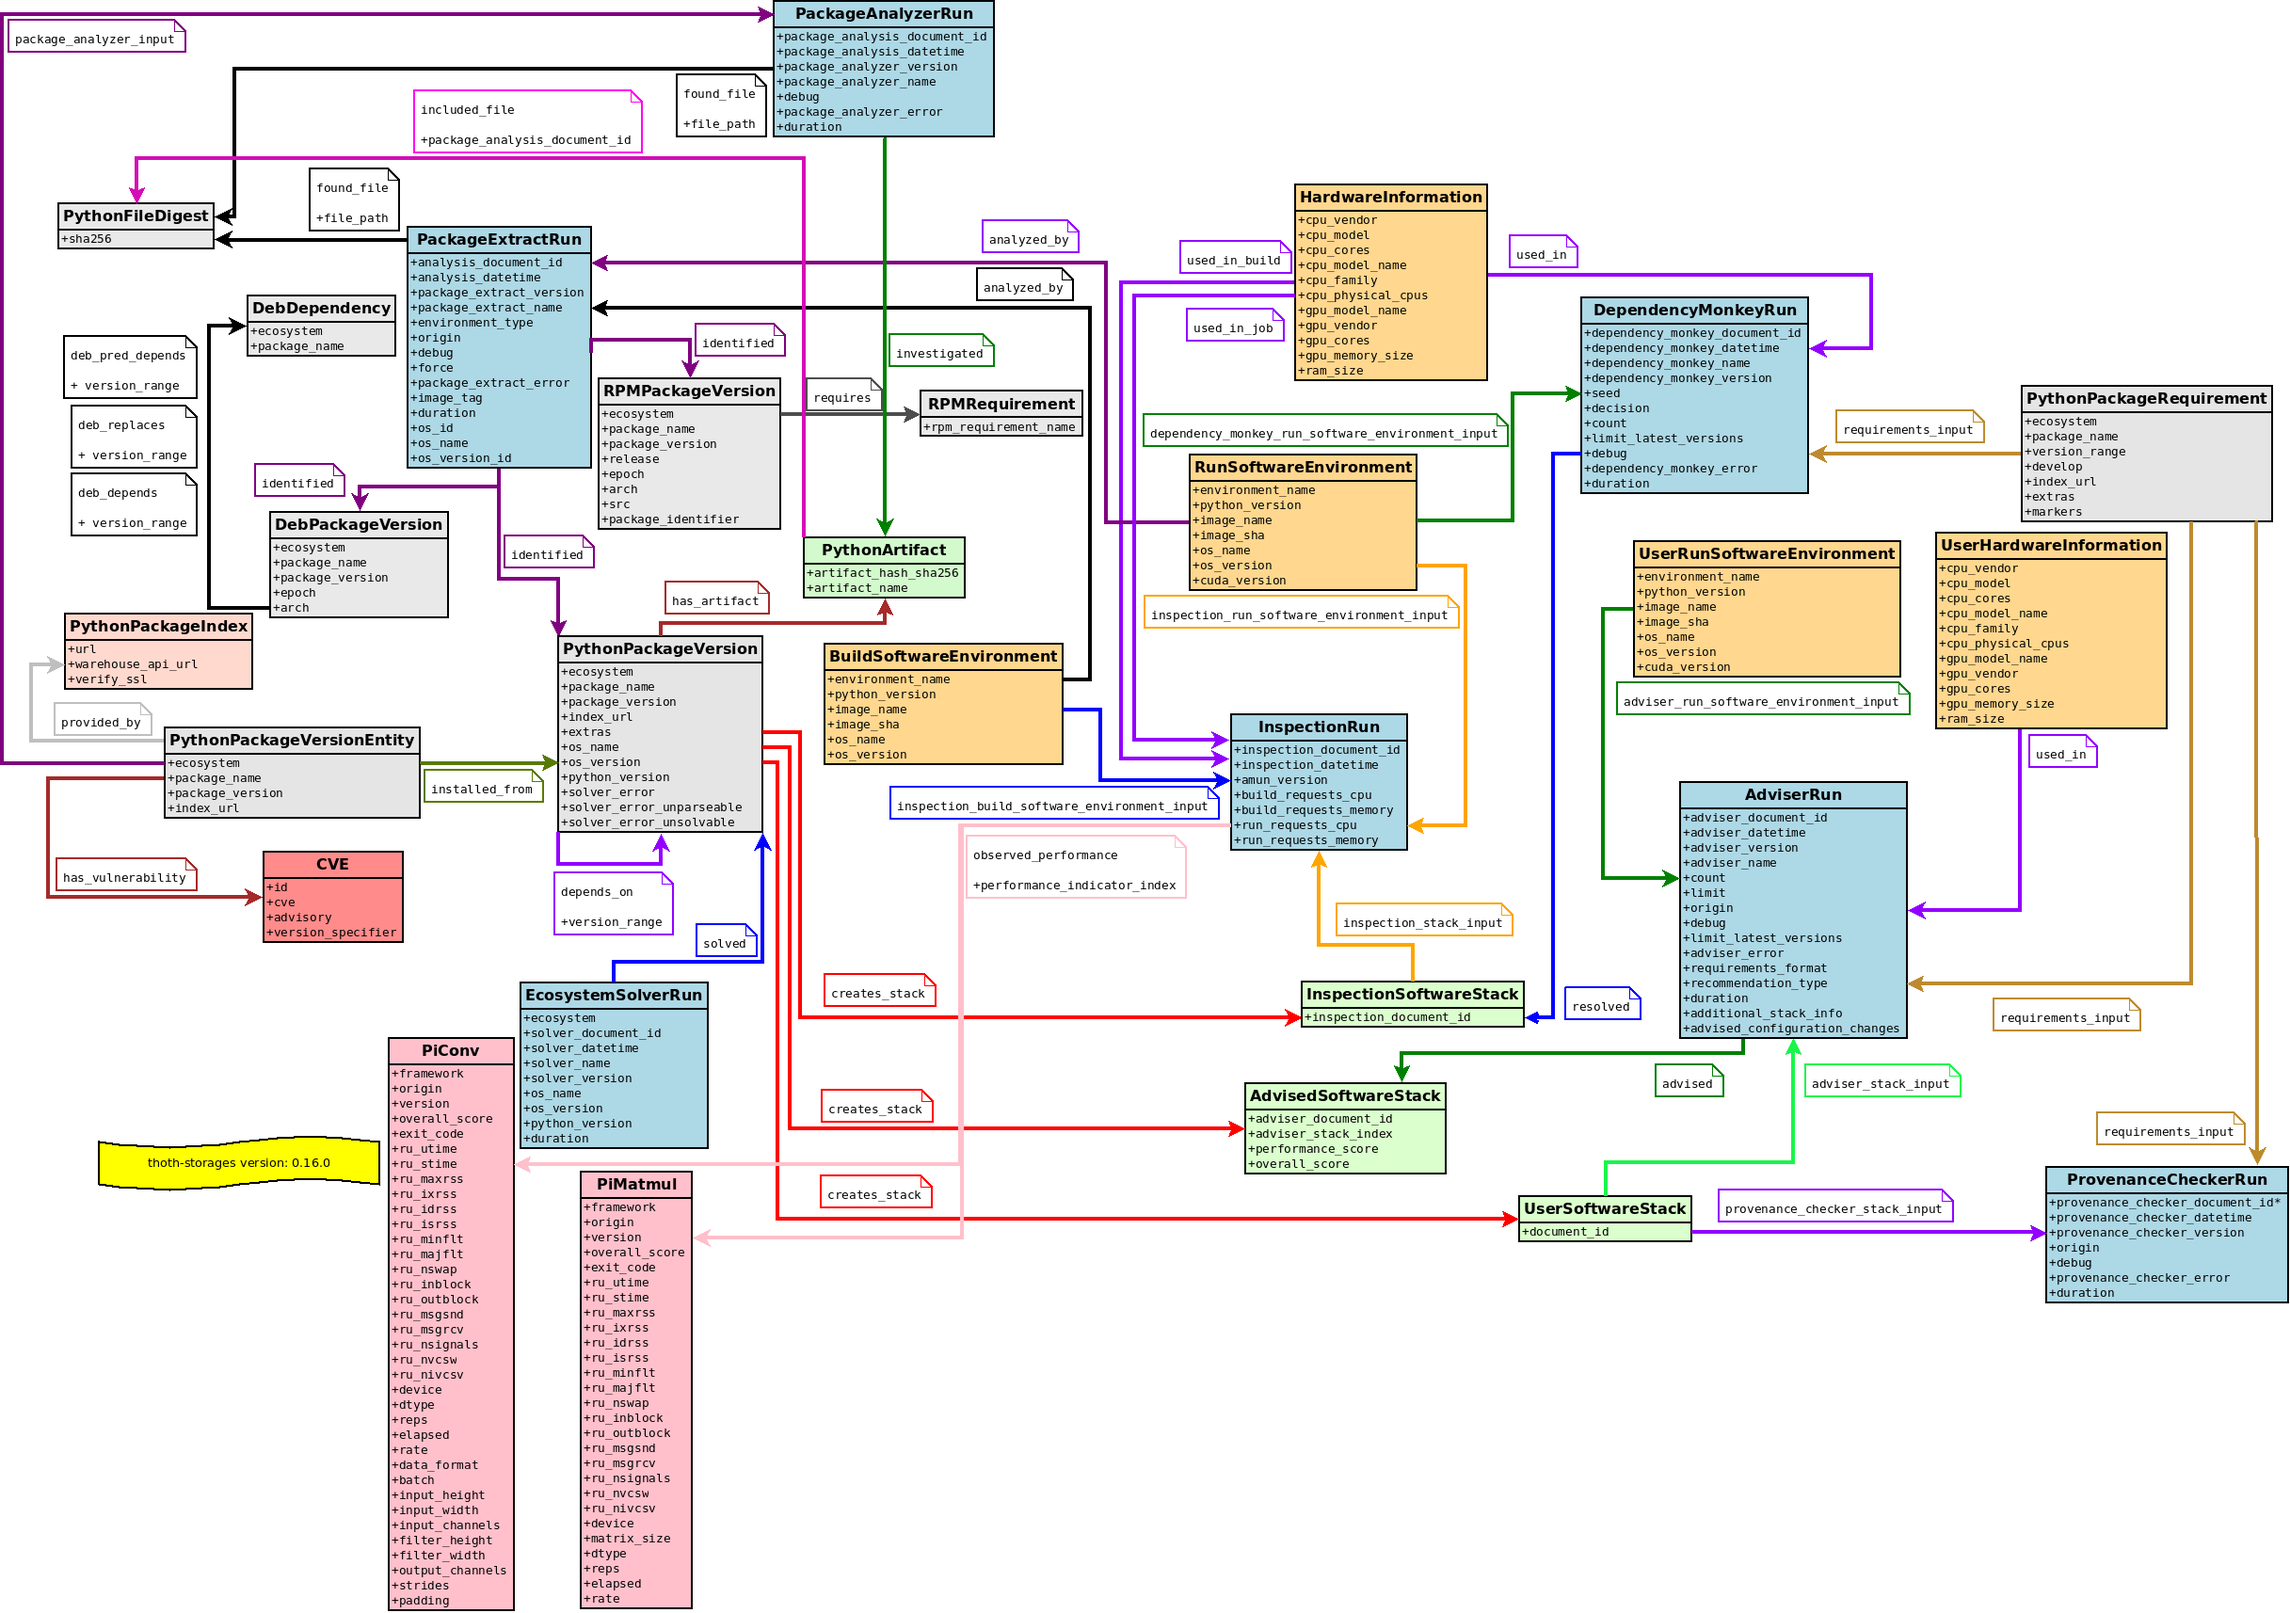
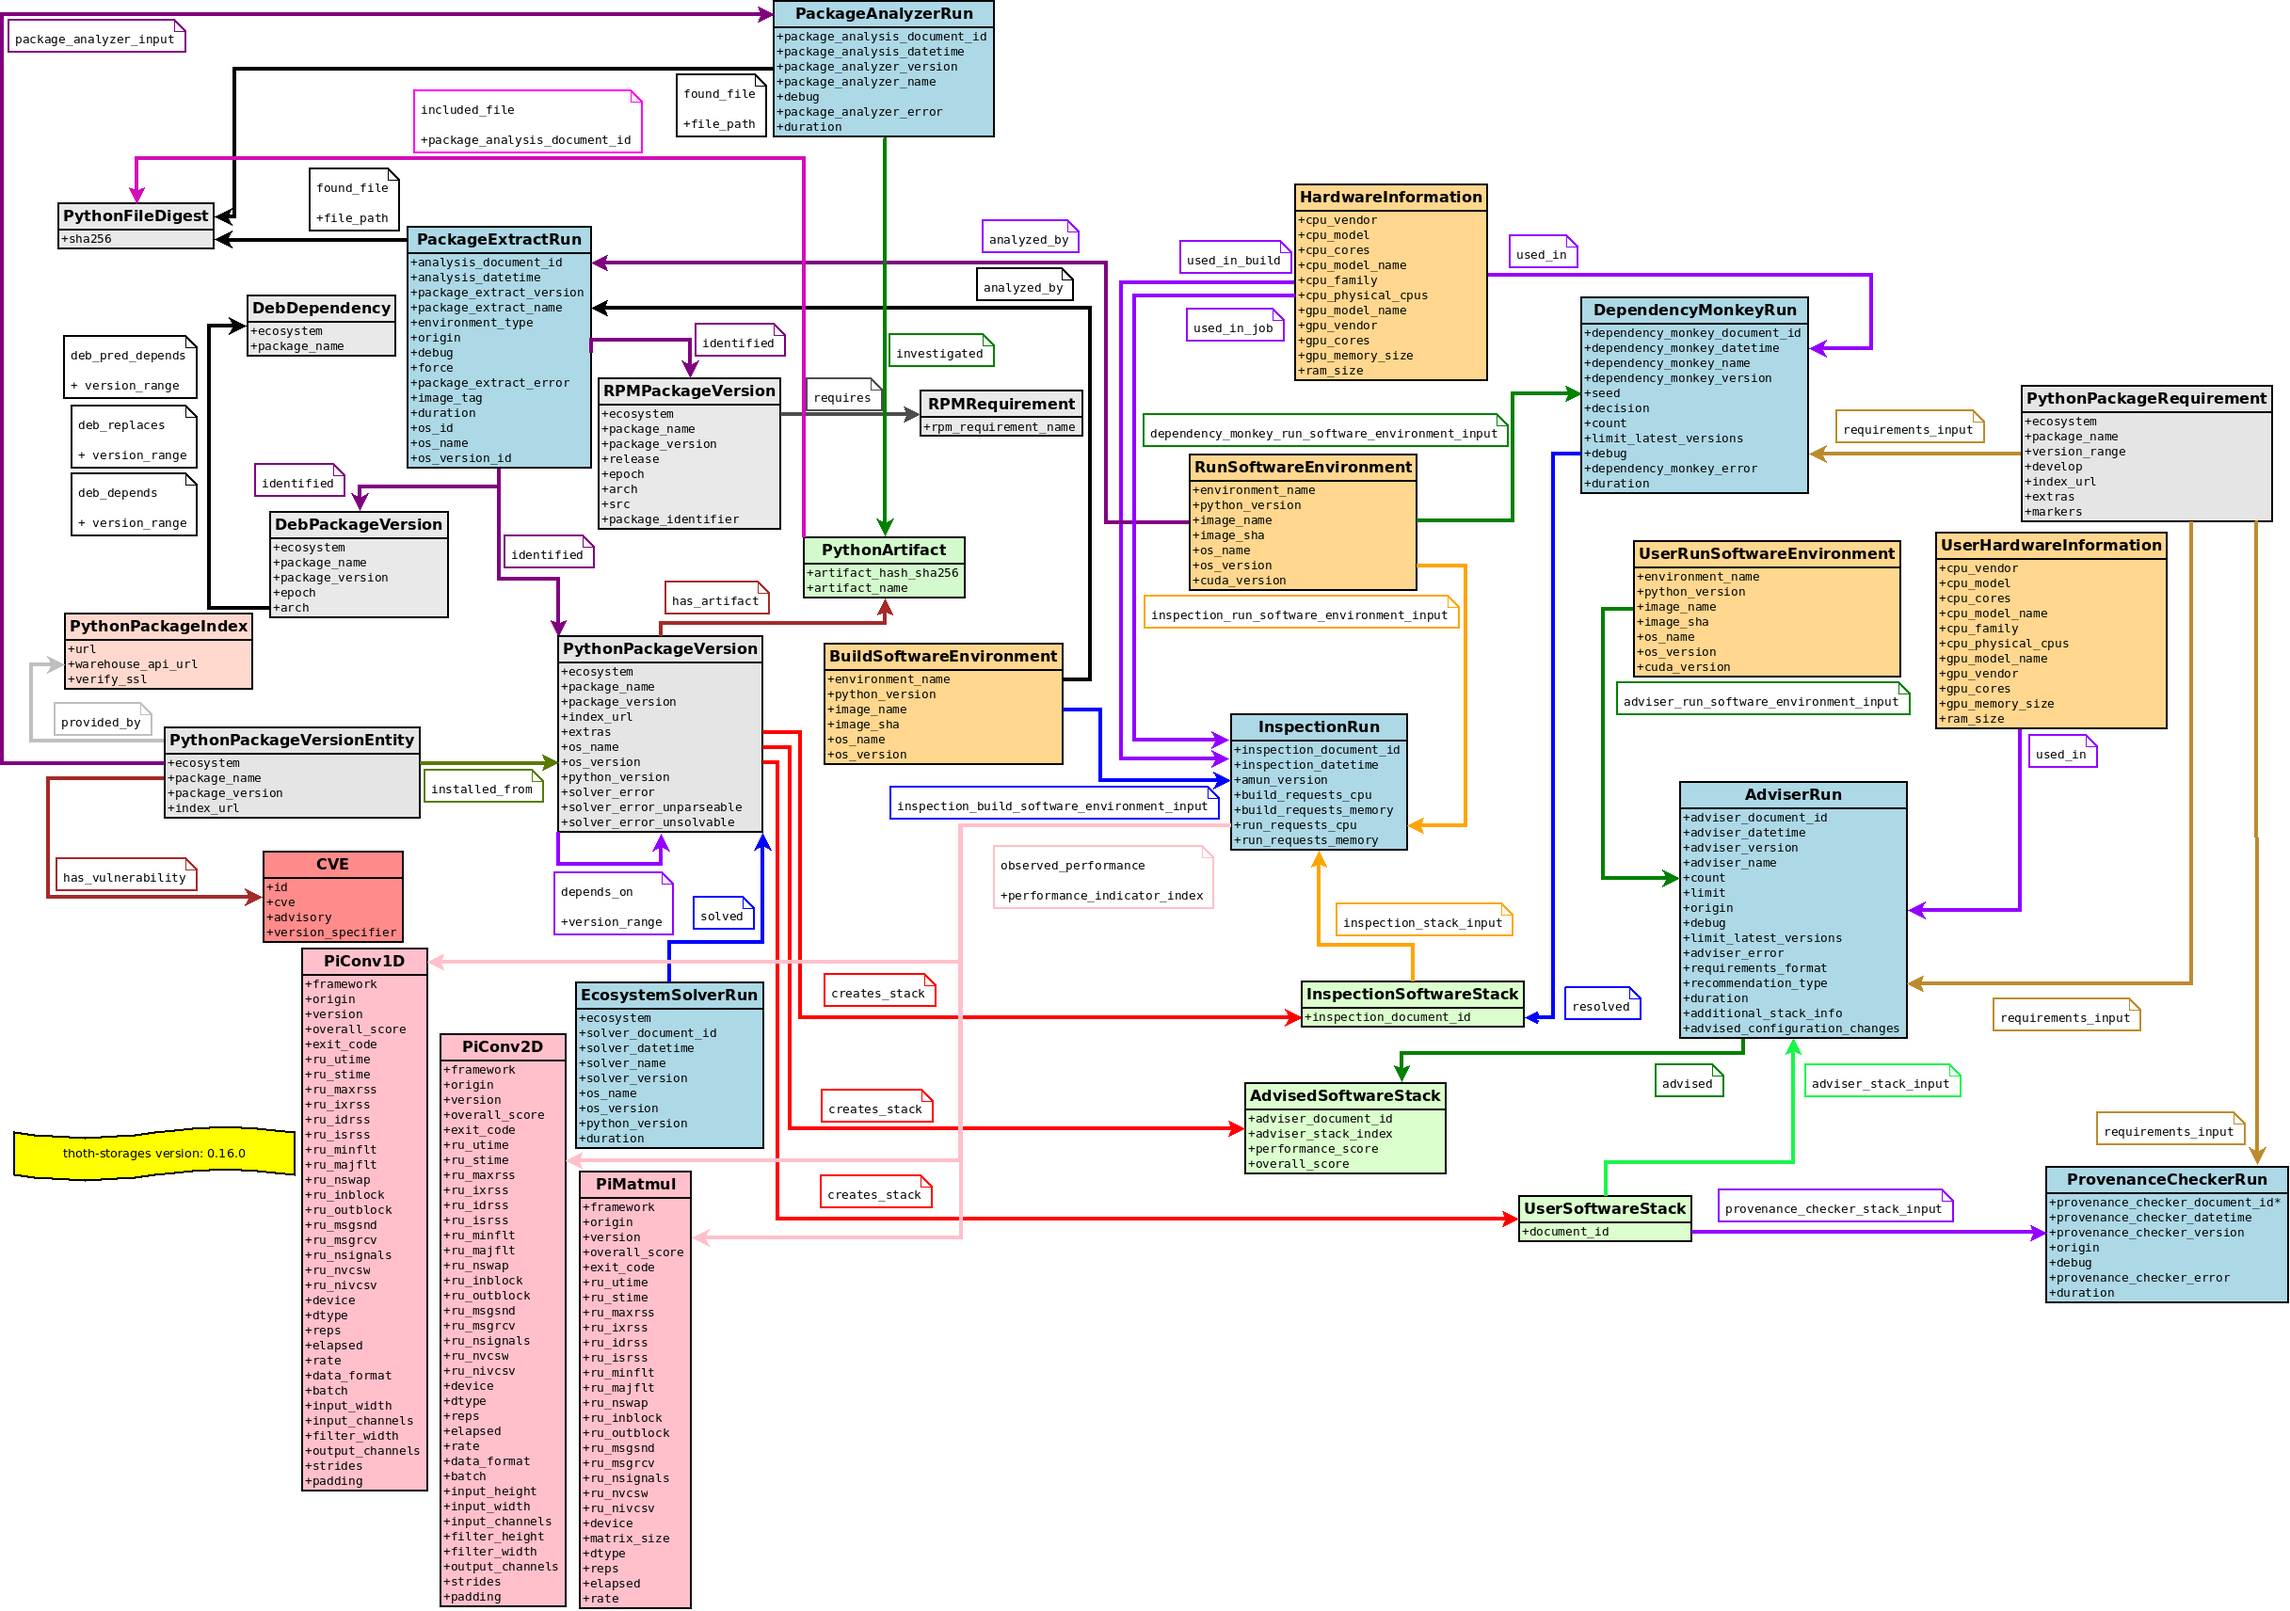
Add PI for Conv1D and Conv2D for tensorflow

diff --git a/thoth/storages/graph/performance.py b/thoth/storages/graph/performance.py
@@ -177,7 +177,63 @@ class PiMatmul(PerformanceIndicatorBase):
 
 
 @attr.s(slots=True)
-class PiConv(PerformanceIndicatorBase):
+class PiConv1D(PerformanceIndicatorBase):
+    """A class for representing a conv1D micro-performance test."""
+
+    SCHEMA_PARAMETERS = Schema(
+        {
+            Required("dtype"): str,
+            Required("reps"): int,
+            Required("device"): str,
+            Required("data_format"): str,
+            Required("batch"): int,
+            Required("input_width"): int,
+            Required("input_channels"): int,
+            Required("filter_width"): int,
+            Required("output_channels"): int,
+            Required("strides"): int,
+            Required("padding"): int,
+        }
+    )
+
+    SCHEMA_RESULT = Schema({Required("elapsed"): float, Required("rate"): float})
+
+    # Device used during performance indicator run - CPU/GPU/TPU/...
+    device = model_property(type=str, index="exact")
+
+    # Type of item in the tensor.
+    dtype = model_property(type=str, index="exact")
+
+    # Number of repetitions of conv2d performed.
+    reps = model_property(type=int, index="int")
+
+    # Data format NHWC Channel_last or NCHW Channel_first
+    data_format = model_property(type=str, index="exact")
+
+    # INPUT TENSOR
+    batch = model_property(type=int, index="int")
+    input_width = model_property(type=int, index="int")
+    input_channels = model_property(type=int, index="int")
+
+    # FILTER
+    filter_width = model_property(type=int, index="int")
+    output_channels = model_property(type=int, index="int")
+
+    # Stride, the speed by which the filter moves across the image
+    strides = model_property(type=int, index="int")
+
+    # Padding
+    padding = model_property(type=int, index="int")
+
+    # Elapsed seconds.
+    elapsed = model_property(type=float)
+
+    # Final rate gflops/s.
+    rate = model_property(type=float)
+
+
+@attr.s(slots=True)
+class PiConv2D(PerformanceIndicatorBase):
     """A class for representing a conv2D micro-performance test."""
 
     SCHEMA_PARAMETERS = Schema(
@@ -236,7 +292,7 @@ class PiConv(PerformanceIndicatorBase):
     rate = model_property(type=float)
 
 
-ALL_PERFORMANCE_MODELS = frozenset((ObservedPerformance, PiMatmul, PiConv))
+ALL_PERFORMANCE_MODELS = frozenset((ObservedPerformance, PiMatmul, PiConv1D, PiConv2D))
 
 
 PERFORMANCE_MODEL_BY_NAME = {model_class.__name__: model_class for model_class in ALL_PERFORMANCE_MODELS}
